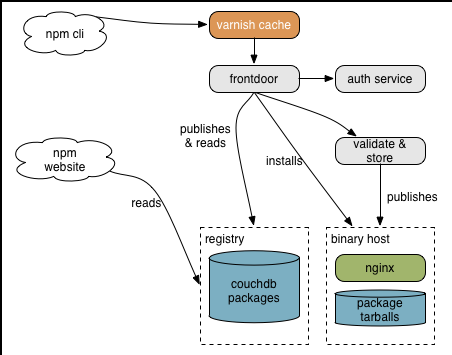
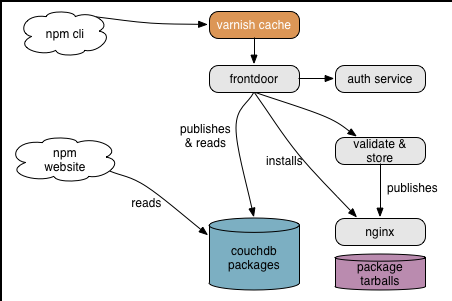
Graffle refresh: colors & layout.

diff --git a/slides.md b/slides.md
@@ -66,6 +66,10 @@ build-lists: true
 
 ---
 
+# [fit] had to scale another way
+
+---
+
 # [fit] splitting the
 # [fit] monolith
 
@@ -100,7 +104,7 @@ build-lists: true
 # [fit] How Systems Really Work
 # [fit] and How They Fail
 
-^ John Gall: who the dude was
+^ John Gall: a pediatrician, not a computer scientist. Interested in systems theory.
 
 ---
 
@@ -126,6 +130,12 @@ build-lists: true
 
 ---
 
+# [fit] Let's cheat.
+
+^ I promised you we'd be cheating. You can't break the law, no matter how tempted you are to argue with it. You have to write simple working systems first.
+
+---
+
 # [fit] Q: How do you cheat?
 
 ^ There are a lot of options here. I'm going to tell you the one npm took, because it's a networked service. If you're writing web services, this might work for you.
@@ -139,6 +149,8 @@ build-lists: true
 
 # [fit] rewrite piece by piece
 # [fit] proxy to the new pieces
+
+^ Don't rewrite the whole thing. Rewrite a tiny simple piece.
 
 ---
 
